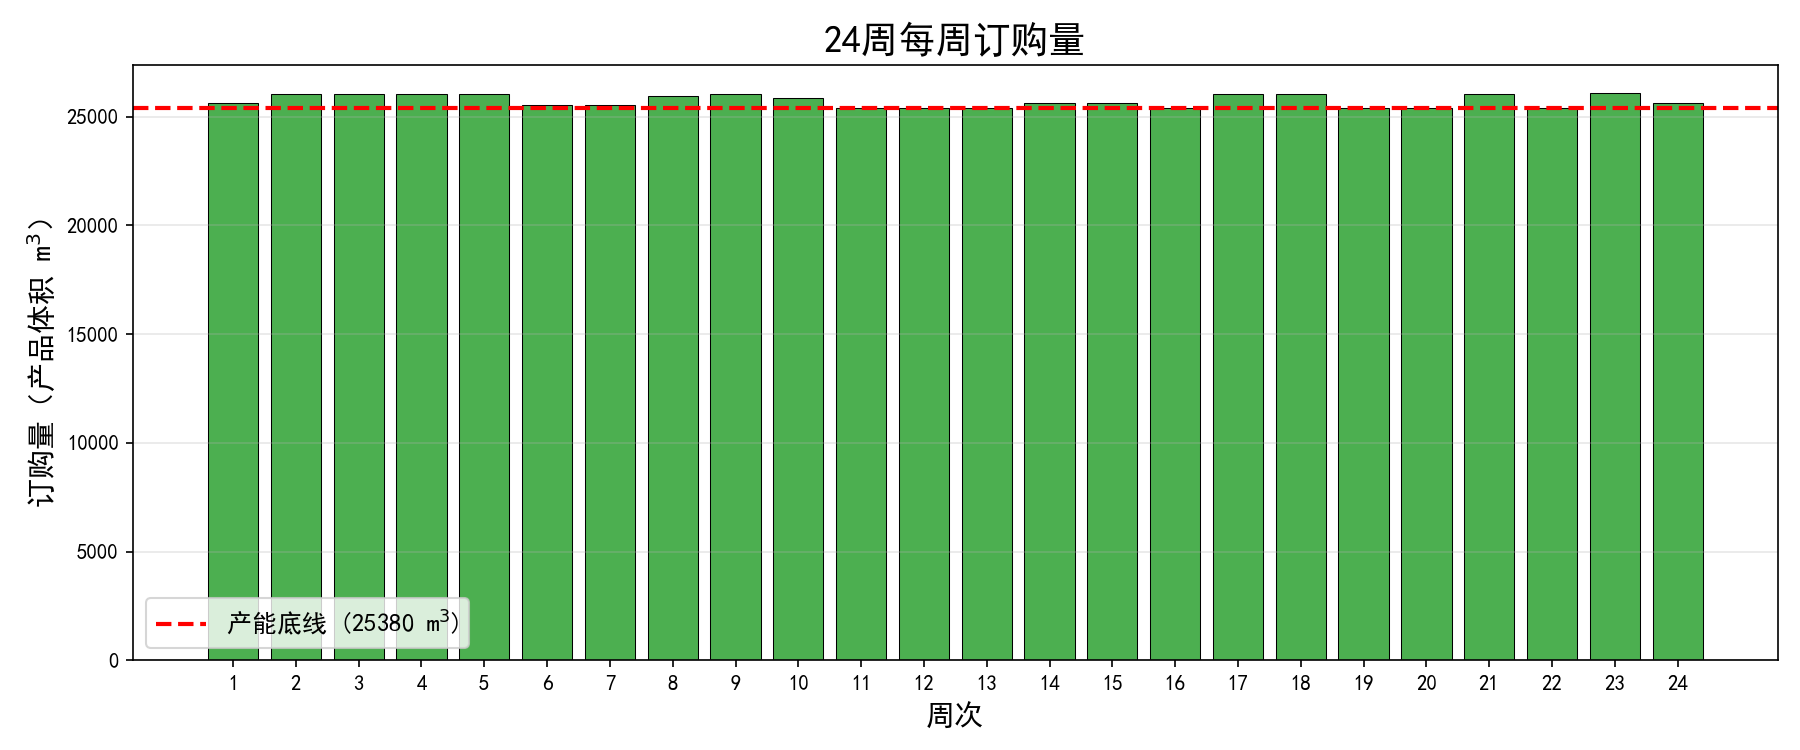
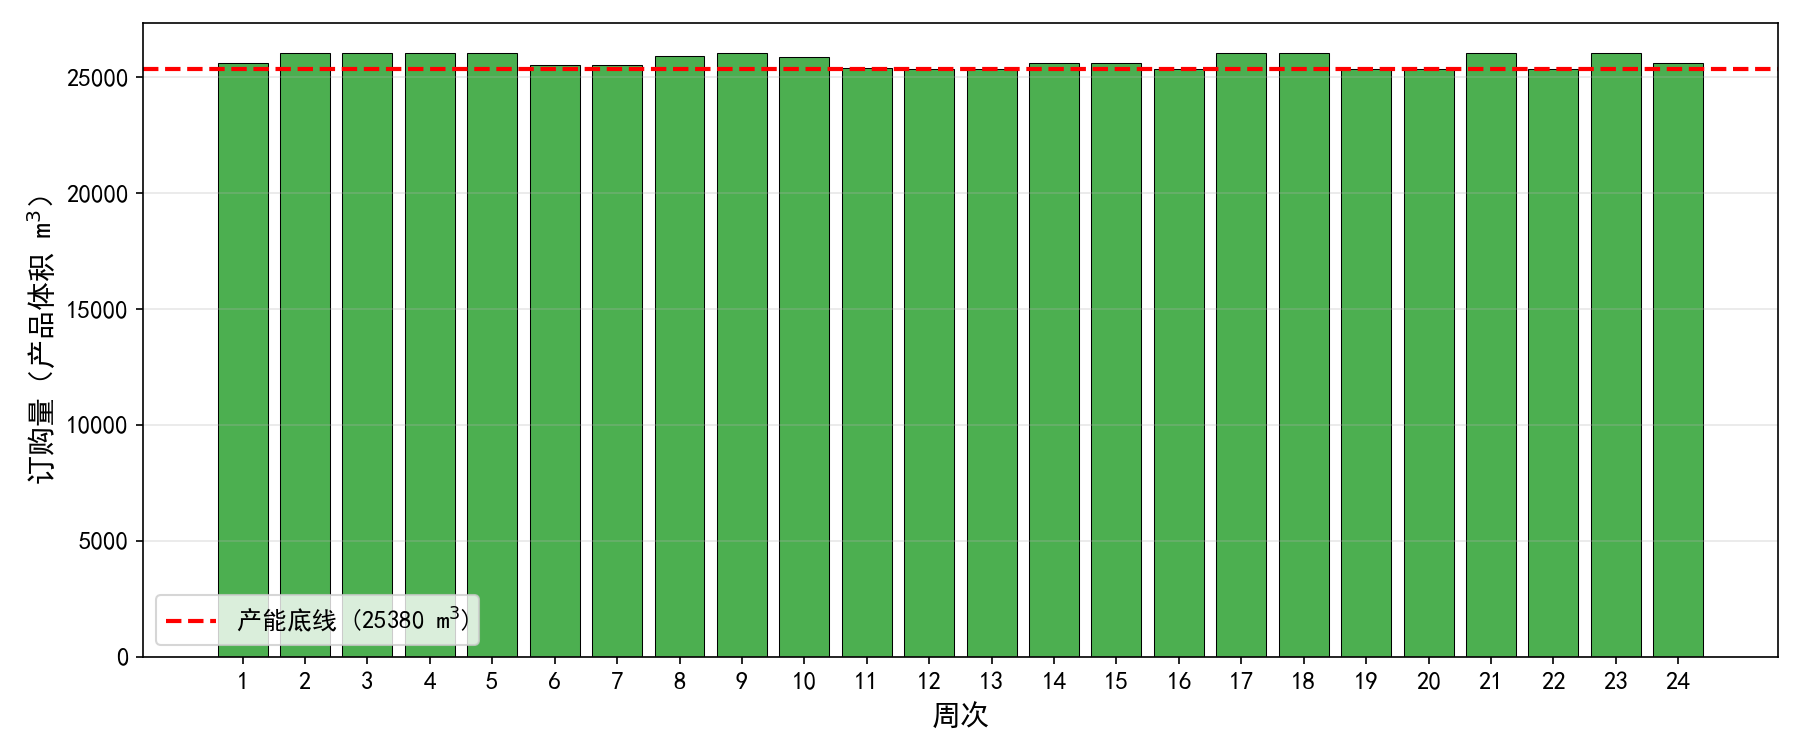
修改了一些东西

Changed region(s): [[0.0, 0.0307, 0.9956, 0.9813]]

diff --git a/模块四练习/code/problem3_visualization.py b/模块四练习/code/problem3_visualization.py
@@ -29,8 +29,6 @@ def plot_model_distribution(models, save_path):
     centre_circle = plt.Circle((0, 0), 0.55, fc='white')
     ax.add_artist(centre_circle)
     
-    ax.set_title('供应商模型类型分布', fontsize=18, fontweight='bold', pad=20)
-    
     plt.tight_layout()
     plt.savefig(save_path, dpi=150, bbox_inches='tight')
     plt.close()
@@ -49,7 +47,7 @@ def plot_gap_distribution(models, save_path):
     
     ax.set_xlabel(r'偏差均值 $\bar{D}$ (m$^3$)', fontsize=14)
     ax.set_ylabel('供应商数量', fontsize=14)
-    ax.set_title('供应商供货偏差均值分布', fontsize=18, fontweight='bold')
+    ax.tick_params(axis='both', labelsize=12)
     ax.legend(fontsize=12)
     ax.grid(True, alpha=0.3)
     
@@ -77,6 +75,7 @@ def plot_fulfillment_rate(fulfillment_rate, P_j, save_path):
     
     ax1.set_xlabel('周次', fontsize=14)
     ax1.set_ylabel('满足率 (%)', fontsize=14, color=color1)
+    ax1.tick_params(axis='both', labelsize=12)
     ax1.tick_params(axis='y', labelcolor=color1)
     ax1.set_xticks(weeks)
     ax1.set_ylim([85, 145])
@@ -85,6 +84,7 @@ def plot_fulfillment_rate(fulfillment_rate, P_j, save_path):
     color2 = 'coral'
     ax2.bar(weeks, P_j * 100, alpha=0.3, color=color2, width=0.4, label='达标概率')
     ax2.set_ylabel('达标概率 (%)', fontsize=14, color=color2)
+    ax2.tick_params(axis='both', labelsize=12)
     ax2.tick_params(axis='y', labelcolor=color2)
     ax2.set_ylim([0, 120])
     
@@ -92,7 +92,6 @@ def plot_fulfillment_rate(fulfillment_rate, P_j, save_path):
     lines2, labels2 = ax2.get_legend_handles_labels()
     ax1.legend(lines1 + lines2, labels1 + labels2, loc='upper right', fontsize=11)
     
-    ax1.set_title('问题三：24周产能满足率（偏差序列ARIMA）', fontsize=18, fontweight='bold')
     ax1.grid(True, alpha=0.3)
     
     plt.tight_layout()
@@ -120,12 +119,10 @@ def plot_acf_examples(deviation_series, models, plan_ids, save_path, n_examples=
         D = deviation_series[idx]
         
         plot_acf(D, lags=min(30, len(D)//2 - 1), ax=ax, alpha=0.05)
-        ax.set_title(f'供应商 {plan_ids[idx]}\n{models[idx]["model_type"]}', fontsize=16)
         ax.set_xlabel('滞后阶数', fontsize=15)
         ax.set_ylabel('自相关系数', fontsize=15)
-        ax.tick_params(axis='both', labelsize=12)
+        ax.tick_params(axis='both', labelsize=13)
     
-    plt.suptitle('典型供应商偏差序列ACF图', fontsize=22, fontweight='bold', y=1.02)
     plt.tight_layout()
     plt.savefig(save_path, dpi=150, bbox_inches='tight')
     plt.close()
@@ -143,8 +140,8 @@ def plot_weekly_supply_comparison(weekly_total, save_path, capacity=28200):
     
     ax.set_xlabel('周次', fontsize=14)
     ax.set_ylabel('总供货量 (产品体积 m$^3$)', fontsize=14)
-    ax.set_title('问题三：每周供货总量', fontsize=18, fontweight='bold')
     ax.set_xticks(weeks)
+    ax.tick_params(axis='both', labelsize=12)
     ax.legend(fontsize=12)
     ax.grid(True, alpha=0.3, axis='y')
     

diff --git a/模块四练习/code/problem3_backtest.py b/模块四练习/code/problem3_backtest.py
@@ -25,9 +25,8 @@ FIGURES_DIR = os.path.join(BASE_DIR, "figures")
 
 
 def load_data():
-    """加载数据"""
-    from data_loader import load_supplier_data
-    from indicators import compute_indicators
+    from problem_data_loader import load_supplier_data
+    from problem_indicators import compute_indicators
     
     supplier_ids, material_types, order_data, supply_data = load_supplier_data(DATA_PATH)
     F1, F2, F3, F4, N = compute_indicators(order_data, supply_data)
@@ -245,7 +244,7 @@ def plot_scatter(y_true_D, y_pred_D, y_true_E, y_pred_E, save_path):
     ax.plot([0, max_val], [0, max_val], 'r--', linewidth=2, label='完美预测线')
     ax.set_xlabel('真实供货量 (m$^3$)', fontsize=14)
     ax.set_ylabel('预测供货量 (m$^3$)', fontsize=14)
-    ax.set_title('回测期预测值 vs 真实值（偏差ARIMA）', fontsize=18, fontweight='bold')
+    ax.tick_params(axis='both', labelsize=12)
     ax.legend(fontsize=12)
     ax.grid(True, alpha=0.3)
     
@@ -264,10 +263,10 @@ def plot_weekly_comparison(weeks, T_true, T_D, T_E, save_path, capacity=28200):
     ax.plot(weeks, T_D, '^--', color='coral', linewidth=1.5, markersize=5, label='方案E (ARIMA)')
     ax.axhline(y=capacity, color='red', linestyle=':', linewidth=1.5, alpha=0.7, label='产能要求')
     
-    ax.set_xlabel('周次', fontsize=12)
-    ax.set_ylabel('总供货量 (产品体积 m$^3$)', fontsize=12)
-    ax.set_title('测试期24周：真实总量 vs 预测总量', fontsize=14)
-    ax.legend(fontsize=10)
+    ax.set_xlabel('周次', fontsize=14)
+    ax.set_ylabel('总供货量 (产品体积 m$^3$)', fontsize=14)
+    ax.tick_params(axis='both', labelsize=12)
+    ax.legend(fontsize=12)
     ax.grid(True, alpha=0.3)
     
     plt.tight_layout()

diff --git a/模块四练习/code/problem1_visualization.py b/模块四练习/code/problem1_visualization.py
@@ -19,8 +19,8 @@ def plot_weight_bar_critic(weights, save_path):
                 f'{w:.4f}', ha='center', va='bottom', fontsize=11, fontweight='bold')
 
     ax.set_ylabel('权重', fontsize=14)
-    ax.set_title('CRITIC法指标权重分布（主模型）', fontsize=18, fontweight='bold')
     ax.set_ylim(0, max(weights) * 1.2)
+    ax.tick_params(axis='both', labelsize=12)
     ax.grid(axis='y', alpha=0.3)
     plt.tight_layout()
     plt.savefig(save_path, dpi=150)
@@ -39,7 +39,7 @@ def plot_score_distribution(C, threshold, save_path):
 
     ax.set_xlabel('贴近度 C', fontsize=14)
     ax.set_ylabel('供应商数量', fontsize=14)
-    ax.set_title('供应商贴近度分布（CRITIC-TOPSIS）', fontsize=18, fontweight='bold')
+    ax.tick_params(axis='both', labelsize=12)
     ax.grid(axis='y', alpha=0.3)
     plt.tight_layout()
     plt.savefig(save_path, dpi=150)
@@ -59,7 +59,7 @@ def plot_weight_comparison(w_critic, w_entropy, save_path):
     ax.set_xticks(x)
     ax.set_xticklabels(indicators)
     ax.set_ylabel('权重', fontsize=14)
-    ax.set_title('CRITIC vs 熵权法 权重对比', fontsize=18, fontweight='bold')
+    ax.tick_params(axis='both', labelsize=12)
     ax.legend()
     ax.grid(axis='y', alpha=0.3)
     plt.tight_layout()
@@ -87,7 +87,7 @@ def plot_rank_scatter(rank_critic, rank_entropy, spearman_rho, save_path):
 
     ax.set_xlabel('CRITIC-TOPSIS排名（主模型）', fontsize=14)
     ax.set_ylabel('熵权-TOPSIS排名（验证）', fontsize=14)
-    ax.set_title(f'两种方法排名对比 (Spearman ρ={spearman_rho:.4f})', fontsize=18, fontweight='bold')
+    ax.tick_params(axis='both', labelsize=12)
     ax.legend(loc='lower right', fontsize=10)
     ax.set_xlim(0, 420)
     ax.set_ylim(0, 420)

diff --git a/模块四练习/code/problem2_visualization.py b/模块四练习/code/problem2_visualization.py
@@ -19,8 +19,8 @@ def plot_weekly_volume(weekly_volume, save_path):
     
     ax.set_xlabel('周次', fontsize=14)
     ax.set_ylabel('订购量（产品体积 m$^3$）', fontsize=14)
-    ax.set_title('24周每周订购量', fontsize=18, fontweight='bold')
     ax.set_xticks(weeks)
+    ax.tick_params(axis='both', labelsize=12)
     ax.legend(fontsize=12)
     ax.grid(axis='y', alpha=0.3)
     
@@ -40,8 +40,8 @@ def plot_weekly_suppliers(weekly_count, weekly_A, weekly_B, weekly_C, save_path)
     
     ax.set_xlabel('周次', fontsize=14)
     ax.set_ylabel('供应商数量', fontsize=14)
-    ax.set_title('每周选中供应商数量（按材料类型）', fontsize=18, fontweight='bold')
     ax.set_xticks(weeks)
+    ax.tick_params(axis='both', labelsize=12)
     ax.legend(fontsize=12)
     ax.grid(axis='y', alpha=0.3)
     
@@ -64,14 +64,13 @@ def plot_supplier_heatmap(x, ids, types, save_path):
     
     ax.set_xlabel('周次', fontsize=14)
     ax.set_ylabel('供应商', fontsize=14)
-    ax.set_title('供应商订购计划热力图', fontsize=18, fontweight='bold')
     ax.set_xticks(np.arange(24))
-    ax.set_xticklabels(np.arange(1, 25), fontsize=11)
+    ax.set_xticklabels(np.arange(1, 25), fontsize=12)
     ax.set_yticks(np.arange(len(ids)))
-    ax.set_yticklabels([f"{ids_sorted[i]}({types_sorted[i]})" for i in range(len(ids))], fontsize=7)
+    ax.set_yticklabels([f"{ids_sorted[i]}({types_sorted[i]})" for i in range(len(ids))], fontsize=8)
     
     cbar = plt.colorbar(im, ax=ax, label='是否订购 (0/1)')
-    cbar.ax.tick_params(labelsize=11)
+    cbar.ax.tick_params(labelsize=12)
     cbar.set_label('是否订购 (0/1)', fontsize=13)
     
     plt.tight_layout()

diff --git a/模块四练习/code/problem1_validation.py b/模块四练习/code/problem1_validation.py
@@ -6,12 +6,12 @@ import numpy as np
 import pandas as pd
 from scipy import stats
 
-from data_loader import load_supplier_data
-from indicators import compute_indicators, build_indicator_matrix
-from normalize import minmax_normalize
-from entropy_weight import entropy_weight
-from critic_weight import critic_weight
-from topsis import topsis
+from problem_data_loader import load_supplier_data
+from problem_indicators import compute_indicators, build_indicator_matrix
+from problem_normalize import minmax_normalize
+from problem_entropy_weight import entropy_weight
+from problem_critic_weight import critic_weight
+from problem_topsis import topsis
 from problem1_visualization import plot_rank_scatter
 
 # 路径配置

diff --git a/模块四练习/code/problem1_main.py b/模块四练习/code/problem1_main.py
@@ -4,11 +4,11 @@
 import os
 import pandas as pd
 
-from data_loader import load_supplier_data
-from indicators import compute_indicators, build_indicator_matrix
-from normalize import minmax_normalize
-from critic_weight import critic_weight
-from topsis import topsis
+from problem_data_loader import load_supplier_data
+from problem_indicators import compute_indicators, build_indicator_matrix
+from problem_normalize import minmax_normalize
+from problem_critic_weight import critic_weight
+from problem_topsis import topsis
 from problem1_visualization import plot_weight_bar_critic, plot_score_distribution
 
 BASE_DIR = os.path.dirname(os.path.dirname(os.path.abspath(__file__)))

diff --git a/模块四练习/code/problem2_main.py b/模块四练习/code/problem2_main.py
@@ -6,8 +6,8 @@ import math
 import numpy as np
 import pandas as pd
 
-from data_loader import load_supplier_data
-from ordering_solver import load_top55_params, check_feasibility, solve_ordering_problem, compute_weekly_summary
+from problem_data_loader import load_supplier_data
+from problem_ordering_solver import load_top55_params, check_feasibility, solve_ordering_problem, compute_weekly_summary
 from problem2_visualization import plot_weekly_volume, plot_weekly_suppliers, plot_supplier_heatmap
 
 BASE_DIR = os.path.dirname(os.path.dirname(os.path.abspath(__file__)))

diff --git a/模块四练习/code/problem3_main.py b/模块四练习/code/problem3_main.py
@@ -5,7 +5,7 @@ import os
 import numpy as np
 import pandas as pd
 
-from data_loader import load_supplier_data
+from problem_data_loader import load_supplier_data
 from problem3_predictor import (build_deviation_series, fit_all_suppliers, predict_supply,
                                   monte_carlo_simulation, compute_supply_plan, compute_capacity_stats,
                                   compute_confidence_intervals)
